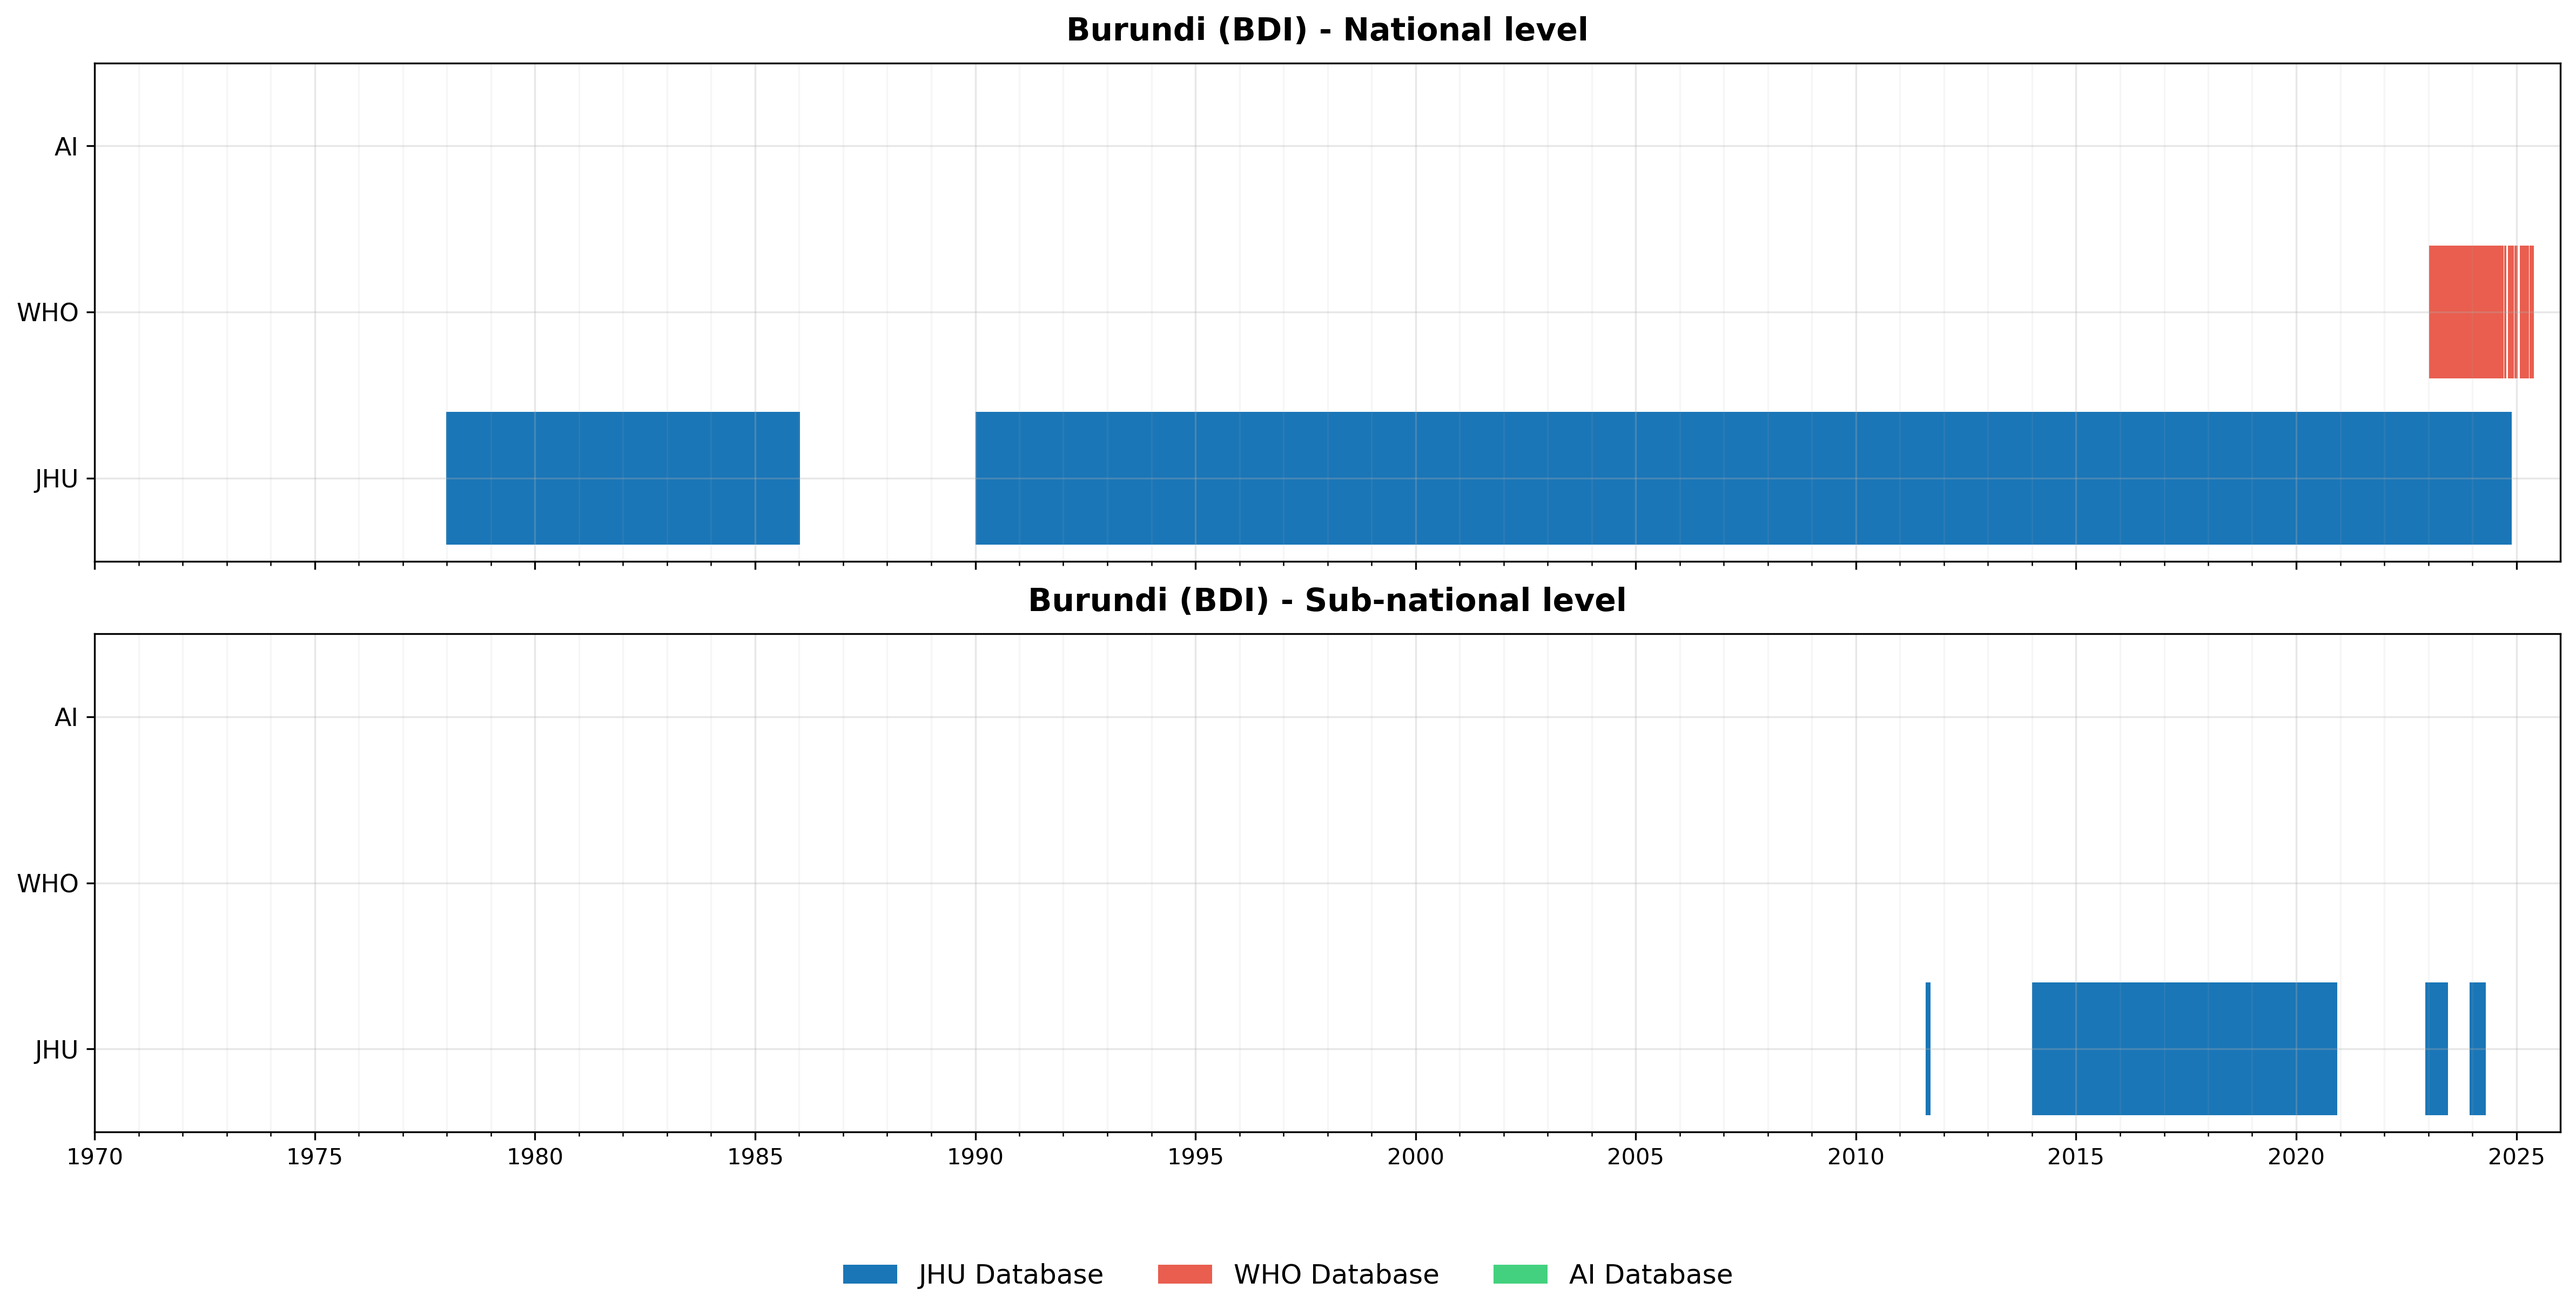
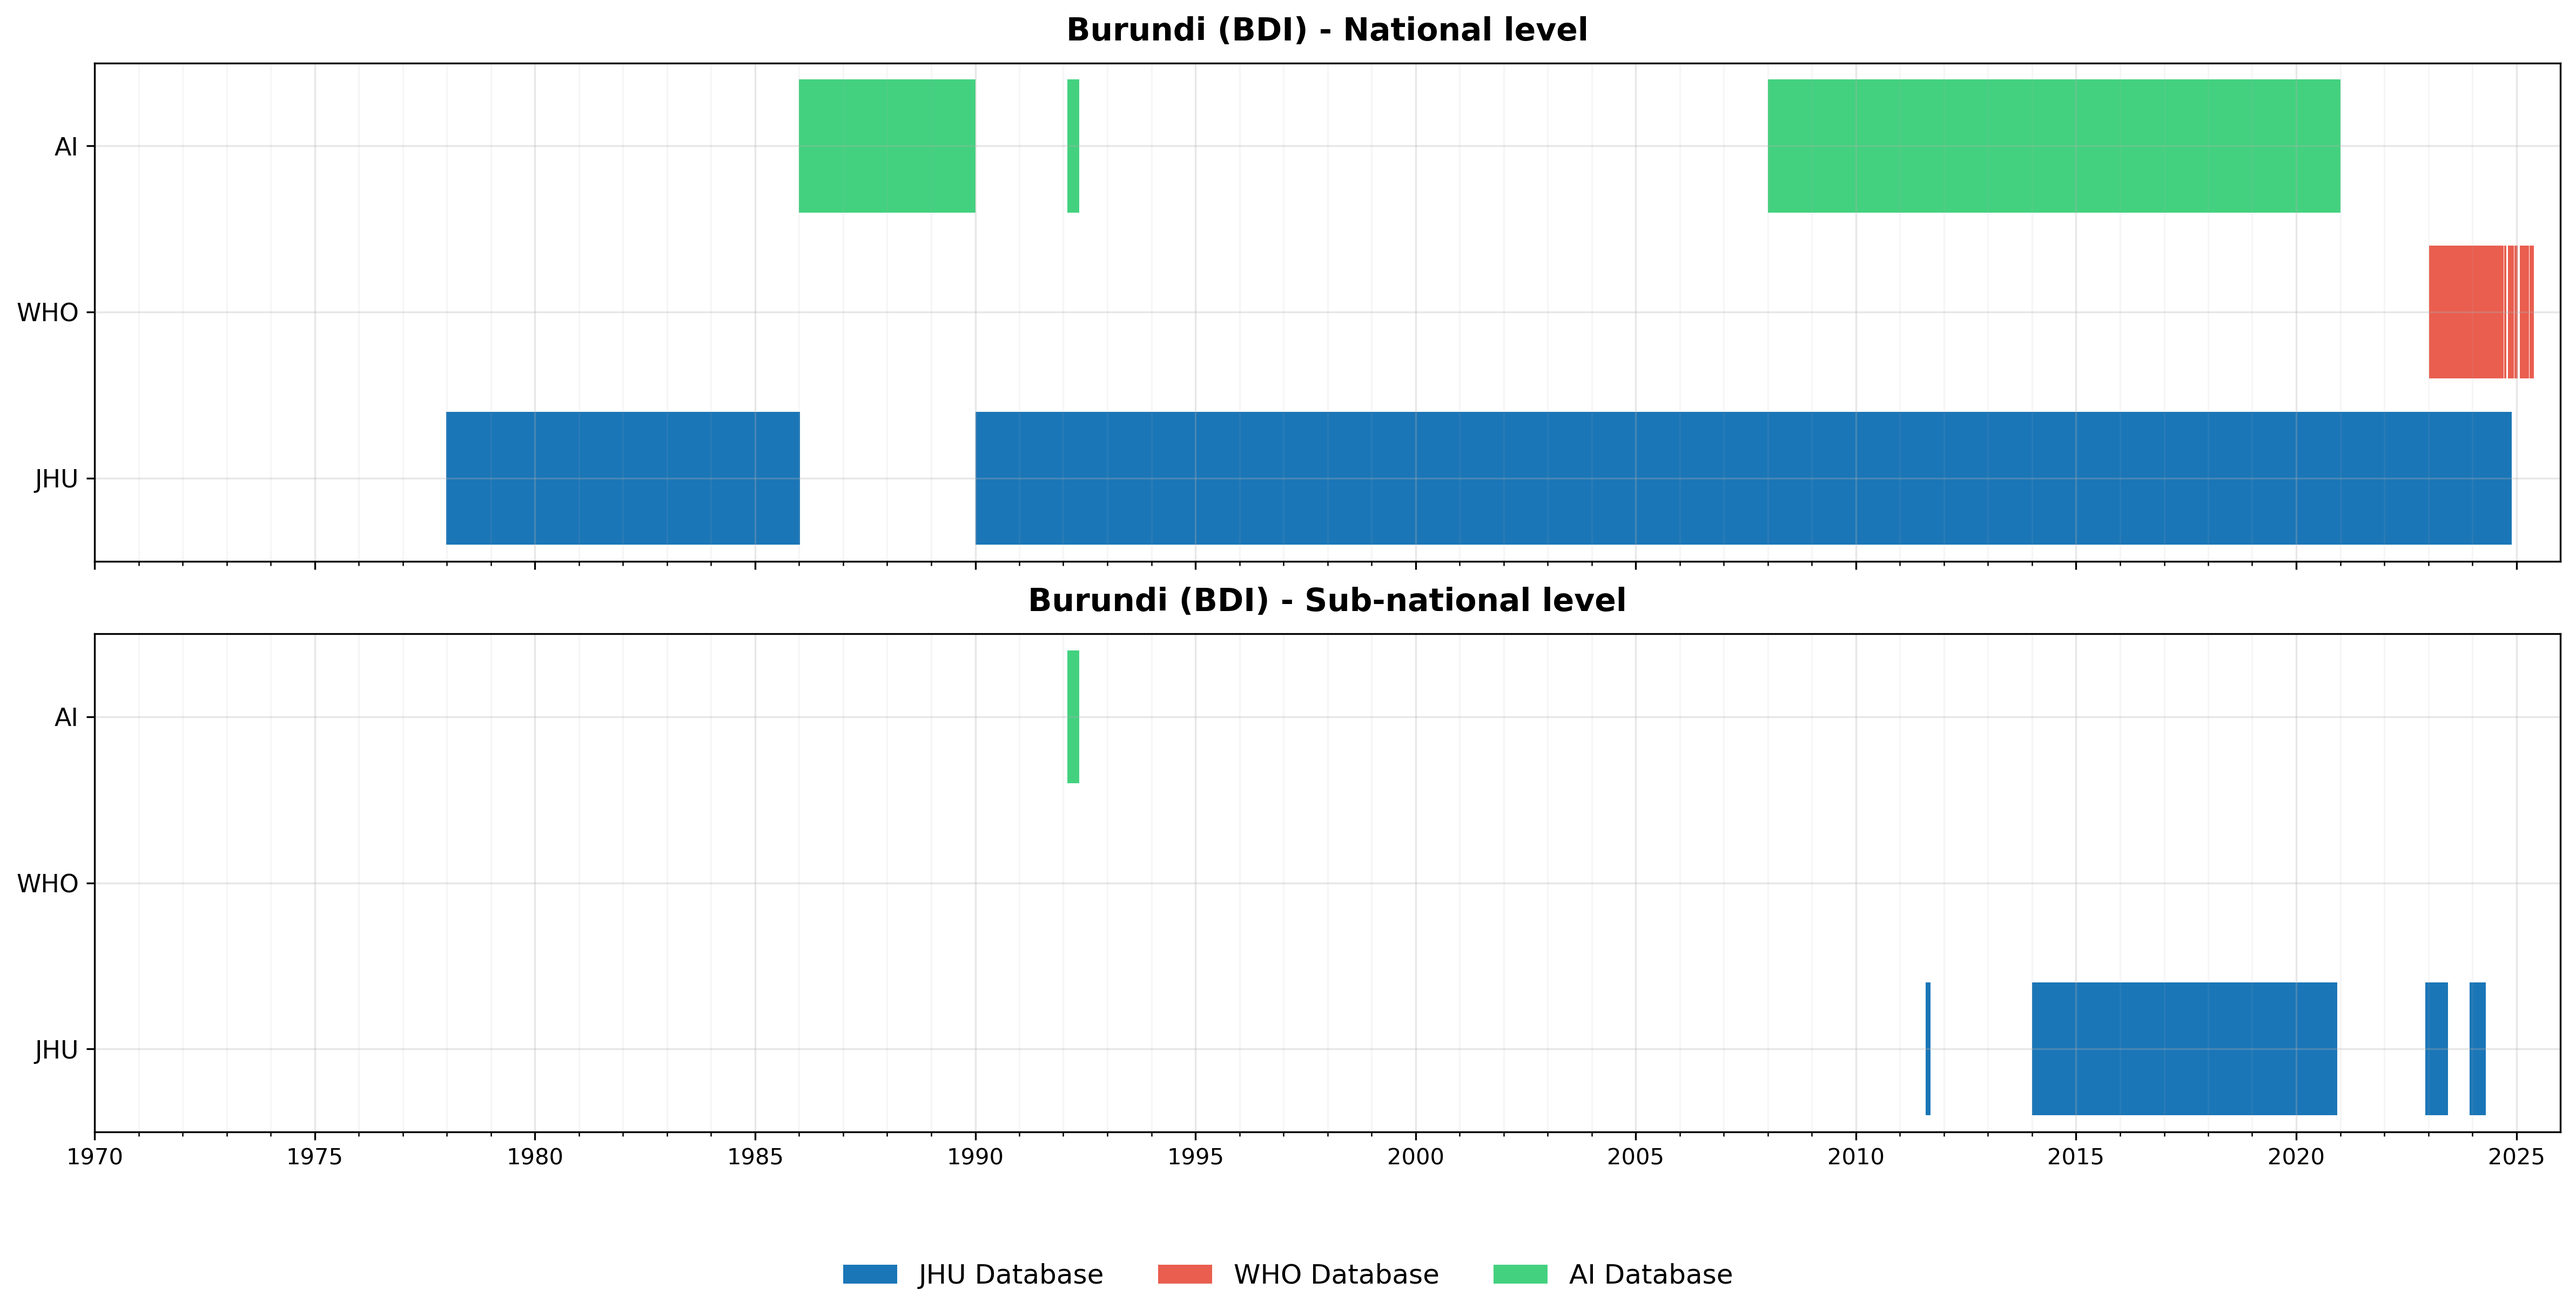
Auto-update dashboard data - 2025-08-05 18:40:15 - Generated with Claude Code

Changed region(s): [[0.6874, 0.0623, 0.9061, 0.187], [0.3124, 0.0623, 0.4374, 0.187], [0.4062, 0.4988, 0.4374, 0.5923]]

diff --git a/dashboard/dashboard.html b/dashboard/dashboard.html
@@ -2002,11 +2002,11 @@
                 "country": "Burundi",
                 "iso": "BDI",
                 "status": "PENDING",
-                "datetime": "2025-08-05 18:38:20",
+                "datetime": "2025-08-05 18:39:34",
                 "sources": 2,
-                "observations": 0,
-                "date_range": "",
-                "priority": "",
+                "observations": 4,
+                "date_range": "1986-2020",
+                "priority": "HIGH",
                 "execution_time": 0,
                 "queries": 0,
                 "yield_pct": 0.0,
